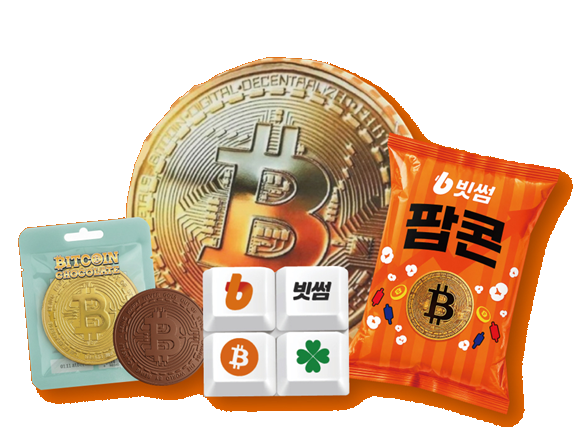
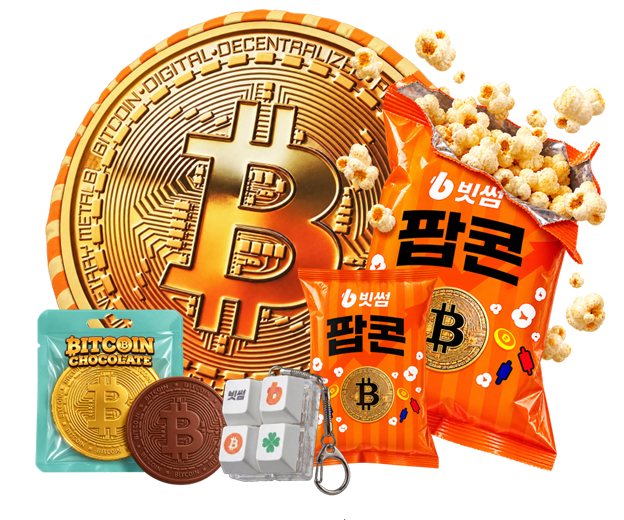
Flood-fill white-background removal instead of a global pixel scan
The previous approach scanned every pixel independently, so it erased
white content *inside* the subject too (dice faces, popcorn kernels).
Now only background connected to the image border is flood-filled and
made transparent, leaving interior whites intact. Also swaps the default
prize goods image for the new bitcoin-coin/popcorn/dice artwork with its
white background removed via this route.

diff --git a/src/app/api/upload-image/route.ts b/src/app/api/upload-image/route.ts
@@ -23,7 +23,7 @@ function isWhitishPixel(r: number, g: number, b: number): boolean {
 }
 
 const WHITE_FULL = 250; // 이 이상이면 완전 투명 처리
-const WHITE_SOFT = 220; // 이 아래는 원본 알파 유지 (부드러운 경계용 완충 구간)
+const WHITE_SOFT = 215; // 이 아래는 원본 알파 유지 (부드러운 경계용 완충 구간)
 const SPREAD_MAX = 18; // 채널 간 편차가 작아야 '무채색(흰색)'으로 간주
 
 // 굿즈 이미지의 배경이 흰색일 때만, 흰 영역을 투명하게 바꾼 PNG로 다시 인코딩한다.
@@ -56,21 +56,71 @@ async function removeWhiteBackgroundIfApplicable(
     return null;
   }
 
-  const out = Buffer.from(data);
-  for (let i = 0; i < width * height; i += 1) {
-    const idx = i * channels;
-    const r = out[idx];
-    const g = out[idx + 1];
-    const b = out[idx + 2];
+  // 테두리에서부터 서로 붙어있는 흰색 영역만 배경으로 표시한다(플러드필).
+  // 팝콘 알갱이나 주사위처럼 피사체 안에 고립된 흰색은 테두리와 연결되지 않으므로
+  // 그대로 남는다 — 전체 픽셀을 한 번에 훑는 방식은 그런 내부 흰색까지 지워버린다.
+  function isWhitishAt(x: number, y: number): boolean {
+    const idx = (y * width + x) * channels;
+    const r = data[idx];
+    const g = data[idx + 1];
+    const b = data[idx + 2];
     const min = Math.min(r, g, b);
     const max = Math.max(r, g, b);
-    const spread = max - min;
+    return min >= WHITE_SOFT && max - min <= SPREAD_MAX;
+  }
 
-    if (spread <= SPREAD_MAX && min >= WHITE_SOFT) {
-      const alphaScale =
-        min >= WHITE_FULL ? 0 : (WHITE_FULL - min) / (WHITE_FULL - WHITE_SOFT);
-      out[idx + 3] = Math.round(out[idx + 3] * alphaScale);
+  const isBackground = new Uint8Array(width * height);
+  const queue: number[] = [];
+
+  function trySeed(x: number, y: number) {
+    const linear = y * width + x;
+    if (!isBackground[linear] && isWhitishAt(x, y)) {
+      isBackground[linear] = 1;
+      queue.push(linear);
     }
+  }
+
+  for (let x = 0; x < width; x += 1) {
+    trySeed(x, 0);
+    trySeed(x, height - 1);
+  }
+  for (let y = 0; y < height; y += 1) {
+    trySeed(0, y);
+    trySeed(width - 1, y);
+  }
+
+  let head = 0;
+  while (head < queue.length) {
+    const linear = queue[head];
+    head += 1;
+    const x = linear % width;
+    const y = (linear - x) / width;
+
+    const neighbors: Array<[number, number]> = [
+      [x - 1, y],
+      [x + 1, y],
+      [x, y - 1],
+      [x, y + 1],
+    ];
+    for (const [nx, ny] of neighbors) {
+      if (nx < 0 || ny < 0 || nx >= width || ny >= height) continue;
+      const nLinear = ny * width + nx;
+      if (isBackground[nLinear]) continue;
+      if (isWhitishAt(nx, ny)) {
+        isBackground[nLinear] = 1;
+        queue.push(nLinear);
+      }
+    }
+  }
+
+  const out = Buffer.from(data);
+  for (let linear = 0; linear < width * height; linear += 1) {
+    if (!isBackground[linear]) continue;
+    const idx = linear * channels;
+    const min = Math.min(out[idx], out[idx + 1], out[idx + 2]);
+    const alphaScale =
+      min >= WHITE_FULL ? 0 : (WHITE_FULL - min) / (WHITE_FULL - WHITE_SOFT);
+    out[idx + 3] = Math.round(out[idx + 3] * alphaScale);
   }
 
   const buffer = await sharp(out, { raw: { width, height, channels } }).png().toBuffer();
